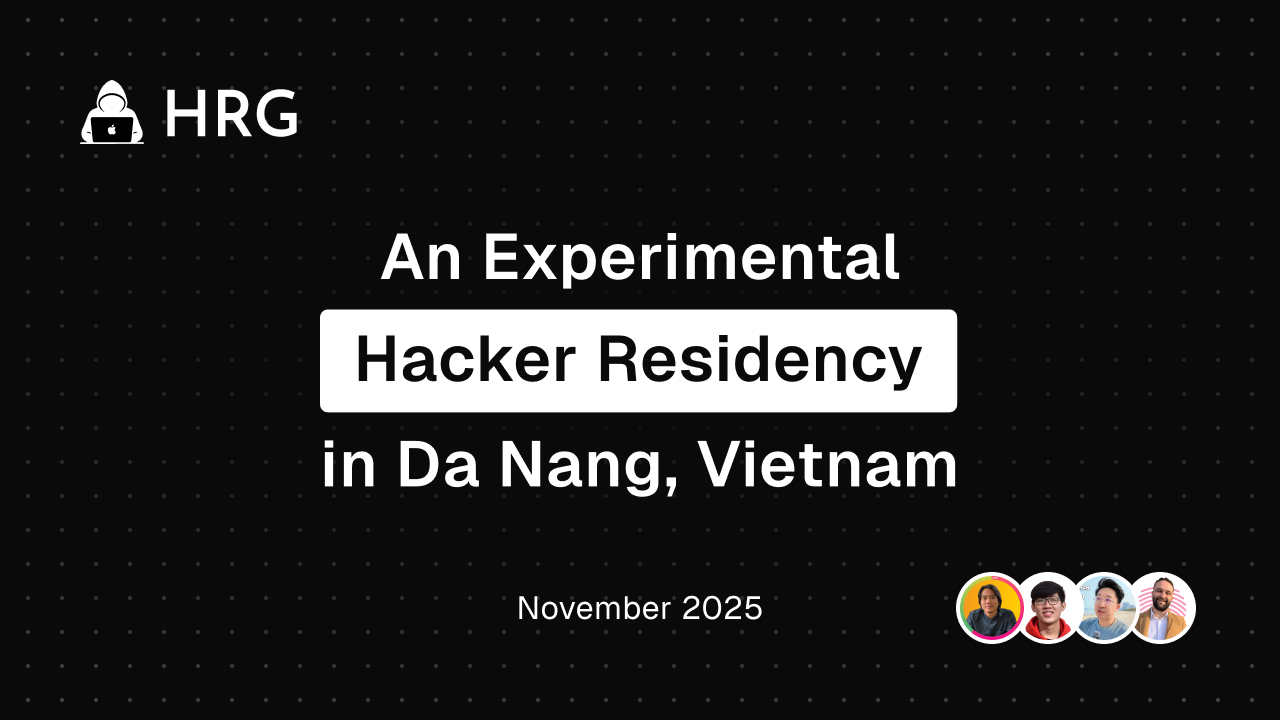
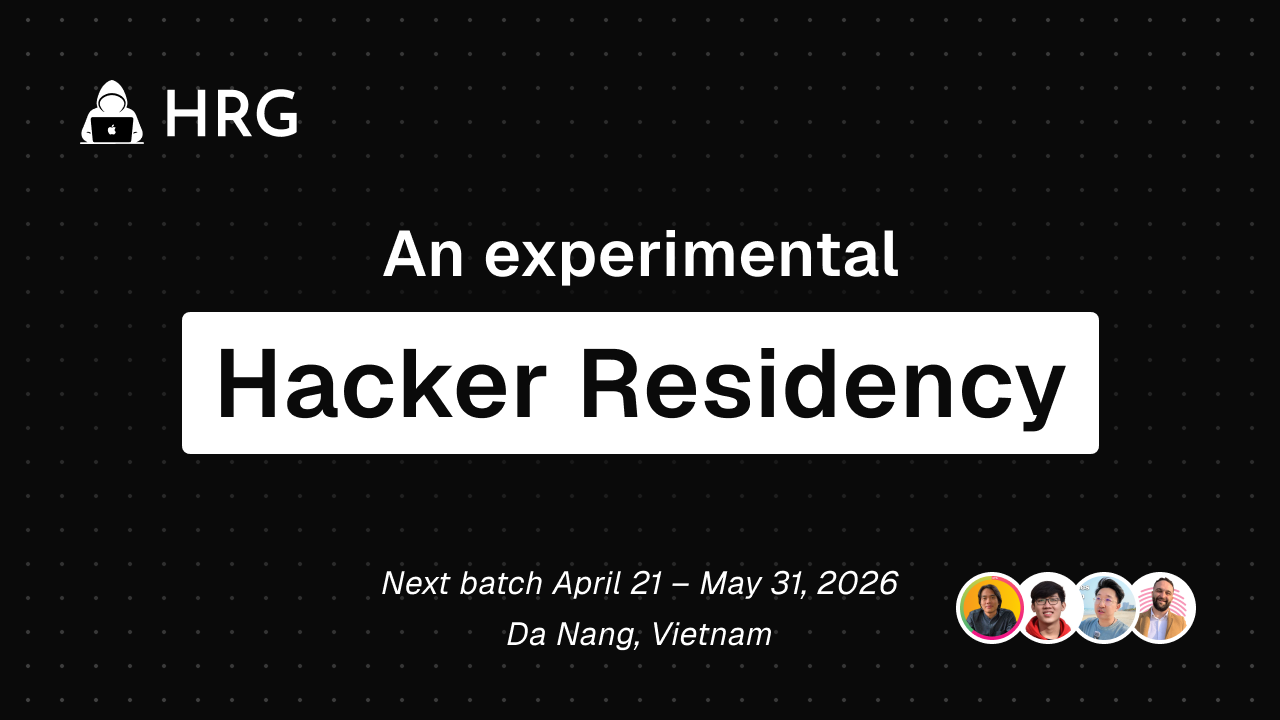
feat: update dates for batch #1 and social images

Changed region(s): [[0.125, 0.4278, 0.875, 0.7028], [0.2812, 0.7944, 0.7188, 0.9167], [0.2812, 0.3056, 0.7188, 0.3972]]

diff --git a/src/lib/config.ts b/src/lib/config.ts
@@ -3,16 +3,15 @@ export const isServer = globalThis.window === undefined
 export const isSafari =
   !isServer && /^((?!chrome|android).)*safari/i.test(navigator.userAgent)
 
-export const title = 'Hacker Residency Group'
-export const description =
-  'A month-long residency for world-class indie hackers.'
+export const title = 'HRG'
+export const description = 'A month-long residency for world-class hackers.'
 export const domain =
   process.env.NEXT_PUBLIC_VERCEL_PROJECT_PRODUCTION_URL ??
   'hackerresidencygroup.com'
 
 export const author = 'HRG'
 export const authorTwitterUsername = 'HackerResidency'
-export const copyright = `© ${new Date().getFullYear()} Hacker Residency Group. All rights reserved.`
+export const copyright = `© ${new Date().getFullYear()} HRG. All rights reserved.`
 
 // external urls
 export const twitterUrl = `https://x.com/${authorTwitterUsername}`
@@ -42,19 +41,25 @@ export const authors = [
 export const keywords = [
   'hacker residency',
   'hacker residency group',
+  'HRG',
   'hacker paradise',
   'indie hackers',
+  'indie hacker paradise',
+  'indie hacker bootcamp',
+  'MRR temple',
   'founders',
   'residency',
   'da nang',
   'vietnam',
-  'HRG',
   'HF0',
   'HF0 residency',
   'startup residency',
   'bootstrapping',
+  'bootstrapped founders',
   'startup founders',
-  'digital nomads'
+  'digital nomads',
+  'accelerator',
+  'incubator'
 ]
 
 export const env =

diff --git a/src/app/cta-section.tsx b/src/app/cta-section.tsx
@@ -43,8 +43,7 @@ export default function CTASection() {
             scale: { type: 'tween', visualDuration: 0.15 }
           }}
         >
-          We're currently wrapping up our first ever batch in Vietnam, but you
-          can join the waitlist for the next batch in 2026 which we'll be
+          Join the waitlist for the next batch coming April 2026 which we'll be
           announcing soon!
         </motion.h3>
 

diff --git a/src/app/batch-0/page.tsx b/src/app/batch-0/page.tsx
@@ -80,7 +80,7 @@ const dots: Array<{
   }
 ])
 
-export default function BatchPage() {
+export default function Batch0Page() {
   return (
     <>
       <RaycastAnimatedBackground />

diff --git a/readme.md b/readme.md
@@ -11,9 +11,14 @@
 
 # HRG <!-- omit from toc -->
 
-> HRG is a new type of **Hacker Residency** in Southeast Asia. Our first cohort is taking place in Da Nang, Vietnam RIGHT NOW (November, 2025).
+> HRG is a new type of **Hacker Residency** in Southeast Asia.
 
 See the [site](https://hackerresidencygroup.com) for details, and [follow our journey on X](https://x.com/HackerResidency) for updates. 💪
+
+## Cohorts
+
+- [Batch 0](https://www.hackerresidencygroup.com/batch-0) - November 2025 in Da Nang, Vietnam
+- Batch 1 – April 21 – May 31, 2026 in Da Nang, Vietnam
 
 ## License
 
